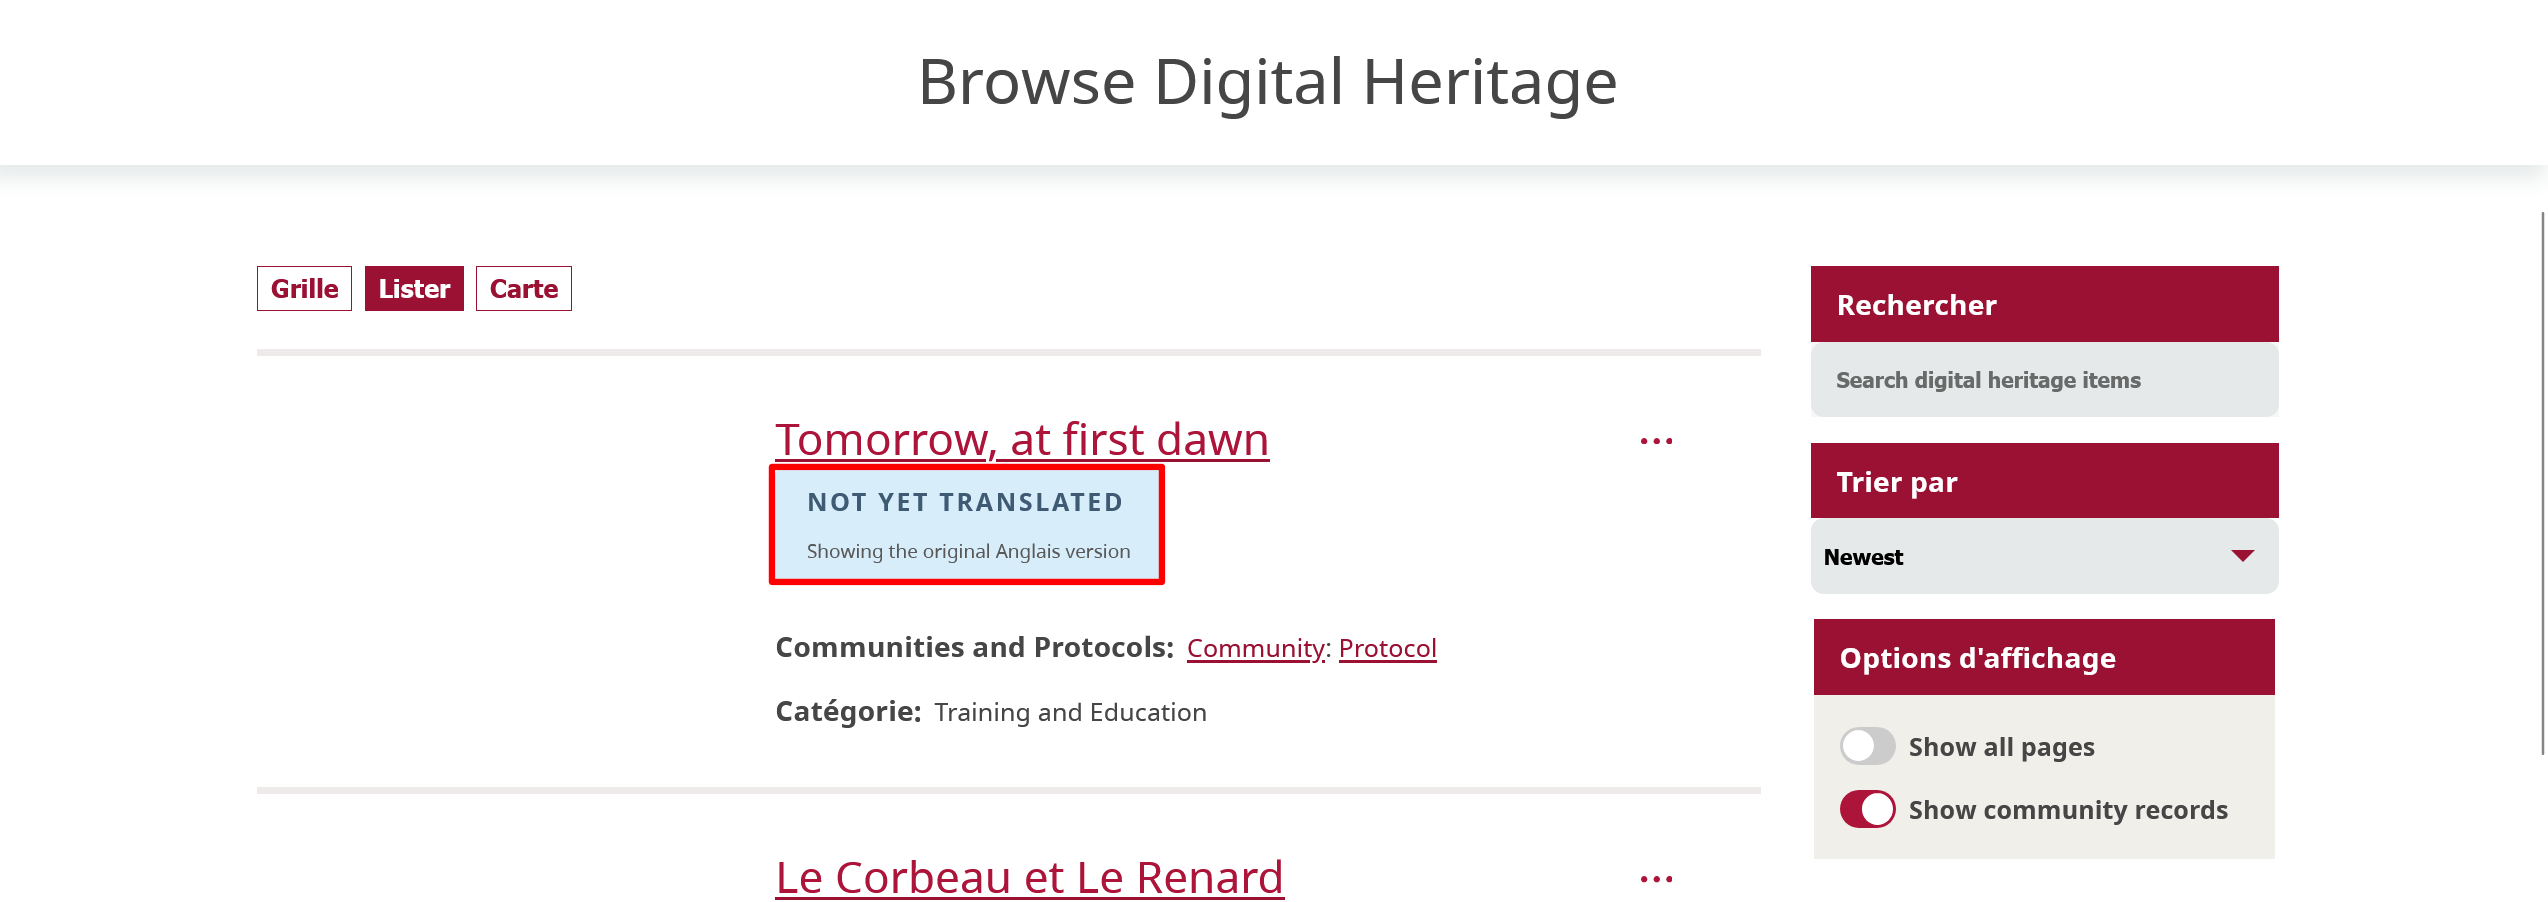
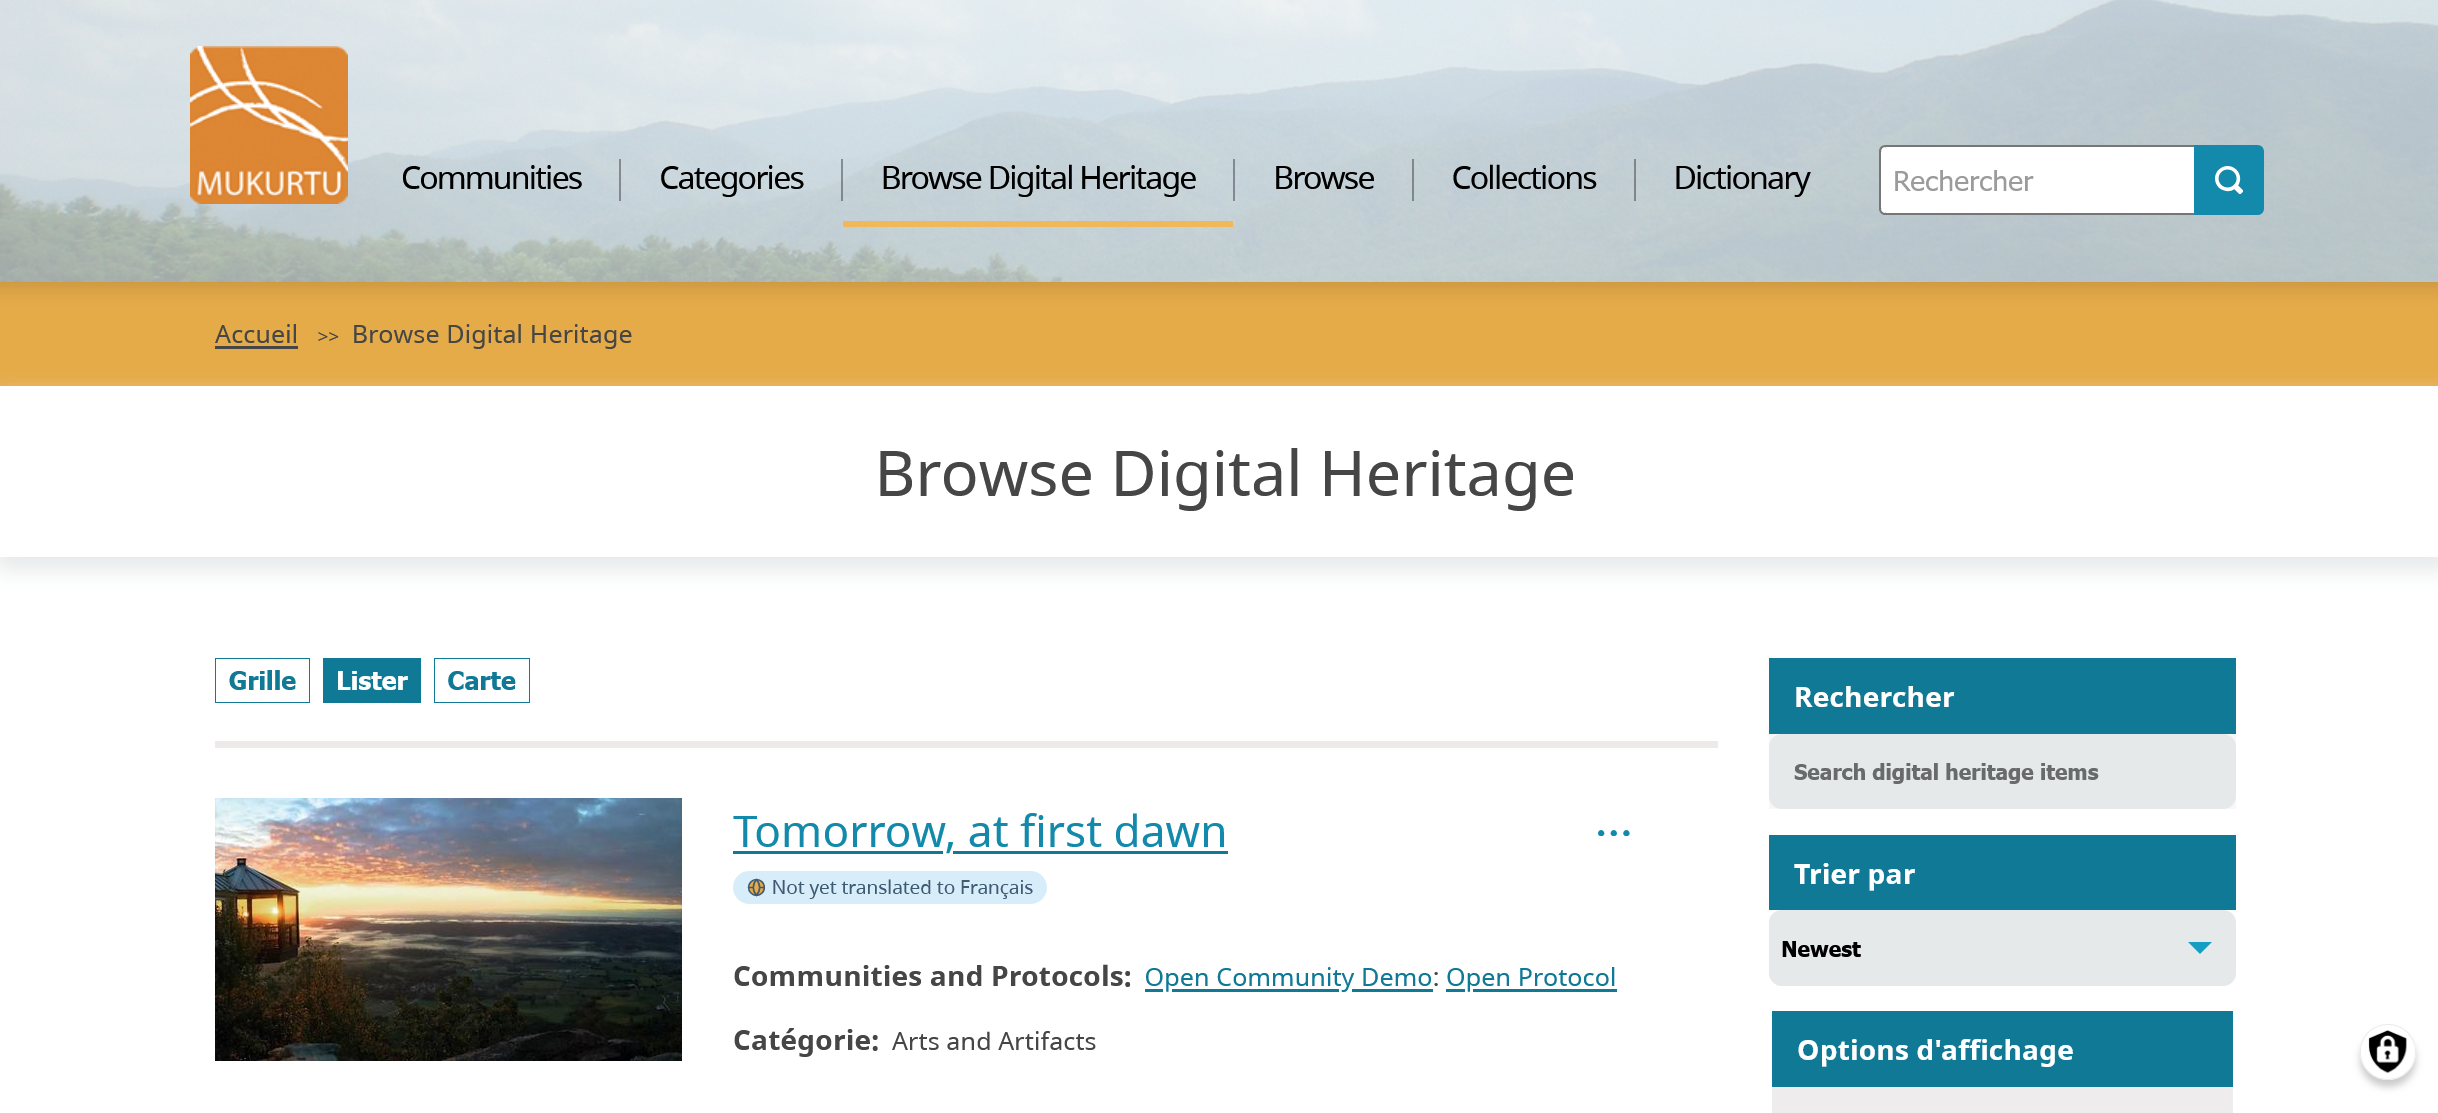
Multilingual updates
Updates to enable multilingual article, screenshots, and pill "not yet translated" indicator.

diff --git a/docs/multilingual/EnableMultilingualModule.md b/docs/multilingual/EnableMultilingualModule.md
@@ -12,32 +12,31 @@ The Mukurtu Multilingual module enables the required Drupal multilingual modules
 
 ## Enable module
 
-1. From the administrative menu, select **Extend** or navigate to `/admin/modules`.
+1. From the **Dashboard**, navigate to the **Multilingual** section and select the **Enable multilingual** link.
 
-    ![Screenshot of the front page with the Extend menu highlighted.](../_embeds/translation1.png)
+    ![Screenshot of the dashboard featuring the multilingual section with enable multilingual highlighted.](../_embeds/multilingual1.png)
 
-2. Use the *Filter* field to search for "multilingual". 
-3. Select Mukurtu Multilingual, then select "Install". This installs and configures the Mukurtu Multilingual, Configuration Translation, Interface Translation, and Content Translation modules.
+2. Select the "Enable multilingual" button to installs and configure Mukurtu Multilingual, Configuration Translation, Interface Translation, and Config Translation PO modules.
 
-    ![Screenshot of the Extend menu, with the checkbox and install button highlighted.](../_embeds/translation2.png)
+    ![Screenshot of the enable multilingual confirmation page with the enable multilingual button highlighted.](../_embeds/multilingual2.png)
 
 4. You will receive a message asking you to confirm that you want to install all of the associated modules. Select "Continue".
 
     ![Screenshot of the message asking you to confirm whether you want to install all of the multilingual modules.](../_embeds/translation3.png)
 
-5. You will receive a status message confirming whether your modules have been installed. The warning message includes a link to add languages to your Mukurtu site. Continue to the next section for instructions on adding a language to your site.
+5. You will receive a status message confirming that your modules have been installed and redirected to the Languages page. Follow the instructions below to add one or more languages to your site.
 
-    ![Screenshot of the Extend menu with the status and warning messages displayed.](../_embeds/translation3a.png)
+    ![Screenshot of the Languages page with the status message showing that multilingual is enabled.](../_embeds/multilingual3.png)
 
 ## Add Languages
 
-To add a language for translation, follow the link in the warning message you got when you configured your site languages or use the administrative menu to navigate to Configuration > Region and Languages > Language. You can also access this setting directly by going to `/admin/config/regional/language`. 
+You can add your language for translation on the redirected **Languages** page immediately after enabling your multilingual modules. If you choose not to add a language at that time, you can add languages later. From the **Dashboard**, navigate to the **Multilingual** section and select the **Manage site languages** link or go directly by going to `/admin/config/regional/language`. 
 
-![Screenshot of the Configuration menu with Region and Languages open and Language highlighted](../_embeds/translation7.png)
+![Screenshot of the multilingual section of the dashboard with the manage site languages link highlighted.](../_embeds/multilingual4.png)
 
 ### Add a language
 
-1. Select the "Add Language" button in the top right-hand corner of the Languages configuration page.
+1. Select the "Add language" button in the top right-hand corner of the Languages configuration page.
 
     ![Screenshot of the languages configuration page with the add language button highlighted](../_embeds/translation4.png)
 

diff --git a/docs/multilingual/TranslateContent.md b/docs/multilingual/TranslateContent.md
@@ -34,6 +34,6 @@ Content translation functions the same way for all content types.
 
     ![Screenshot of the translated digital heritage item in French.](../_embeds/translatecontent5.png)
 
-If content has not yet been translated, users will see a message stating "NOT YET TRANSLATED Showing the original [language] version.".
+If content has not yet been translated, users will see a message stating "Not yet translated to [language].".
 
 ![Screenshot of the digital heritage browse page with a digital heritage item showing the not yet translated message highlighted.](../_embeds/translatecontent6.png)
